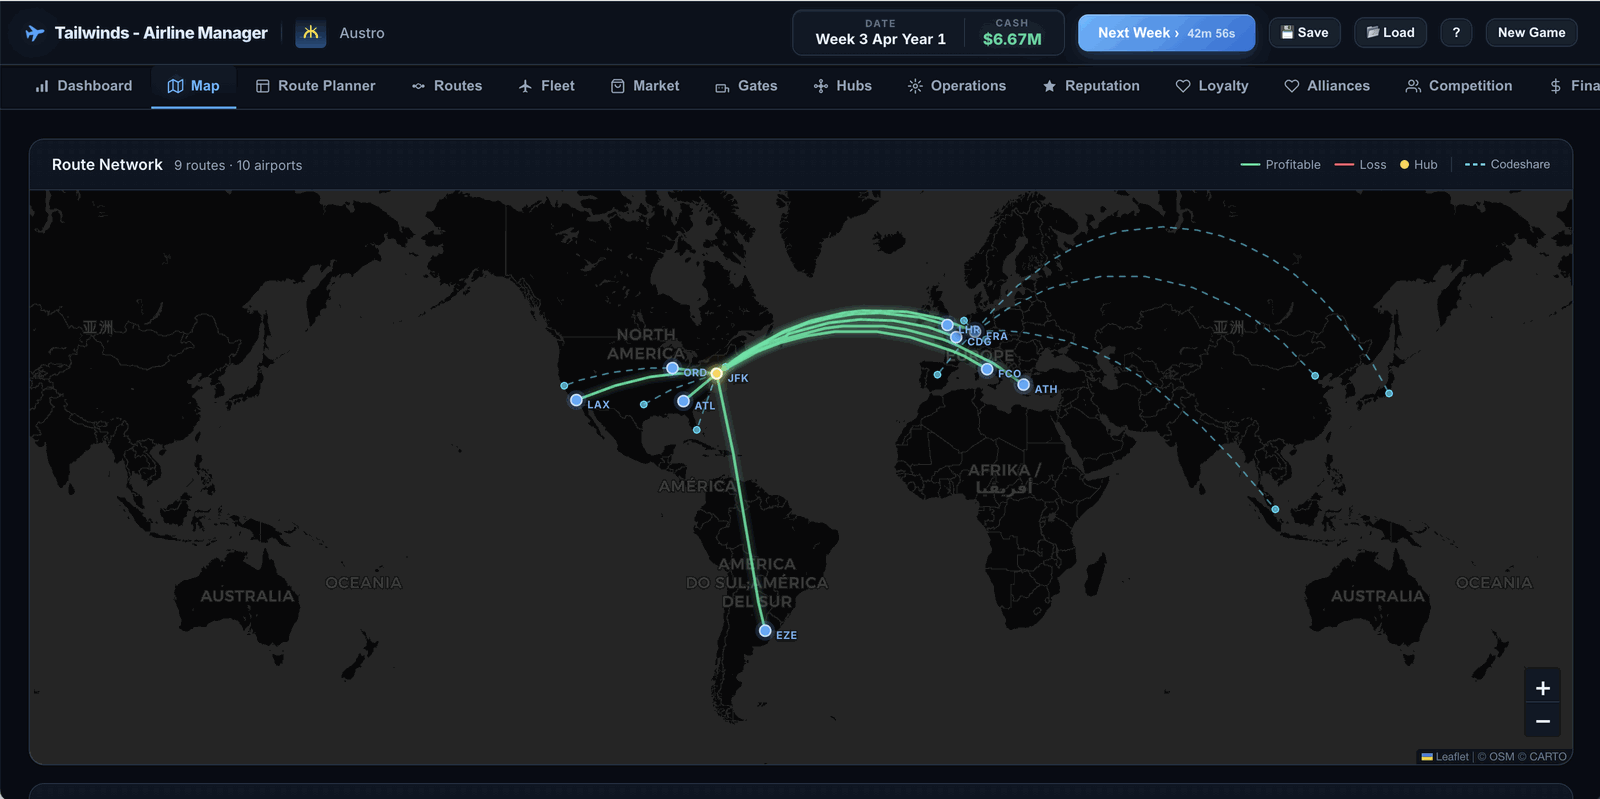
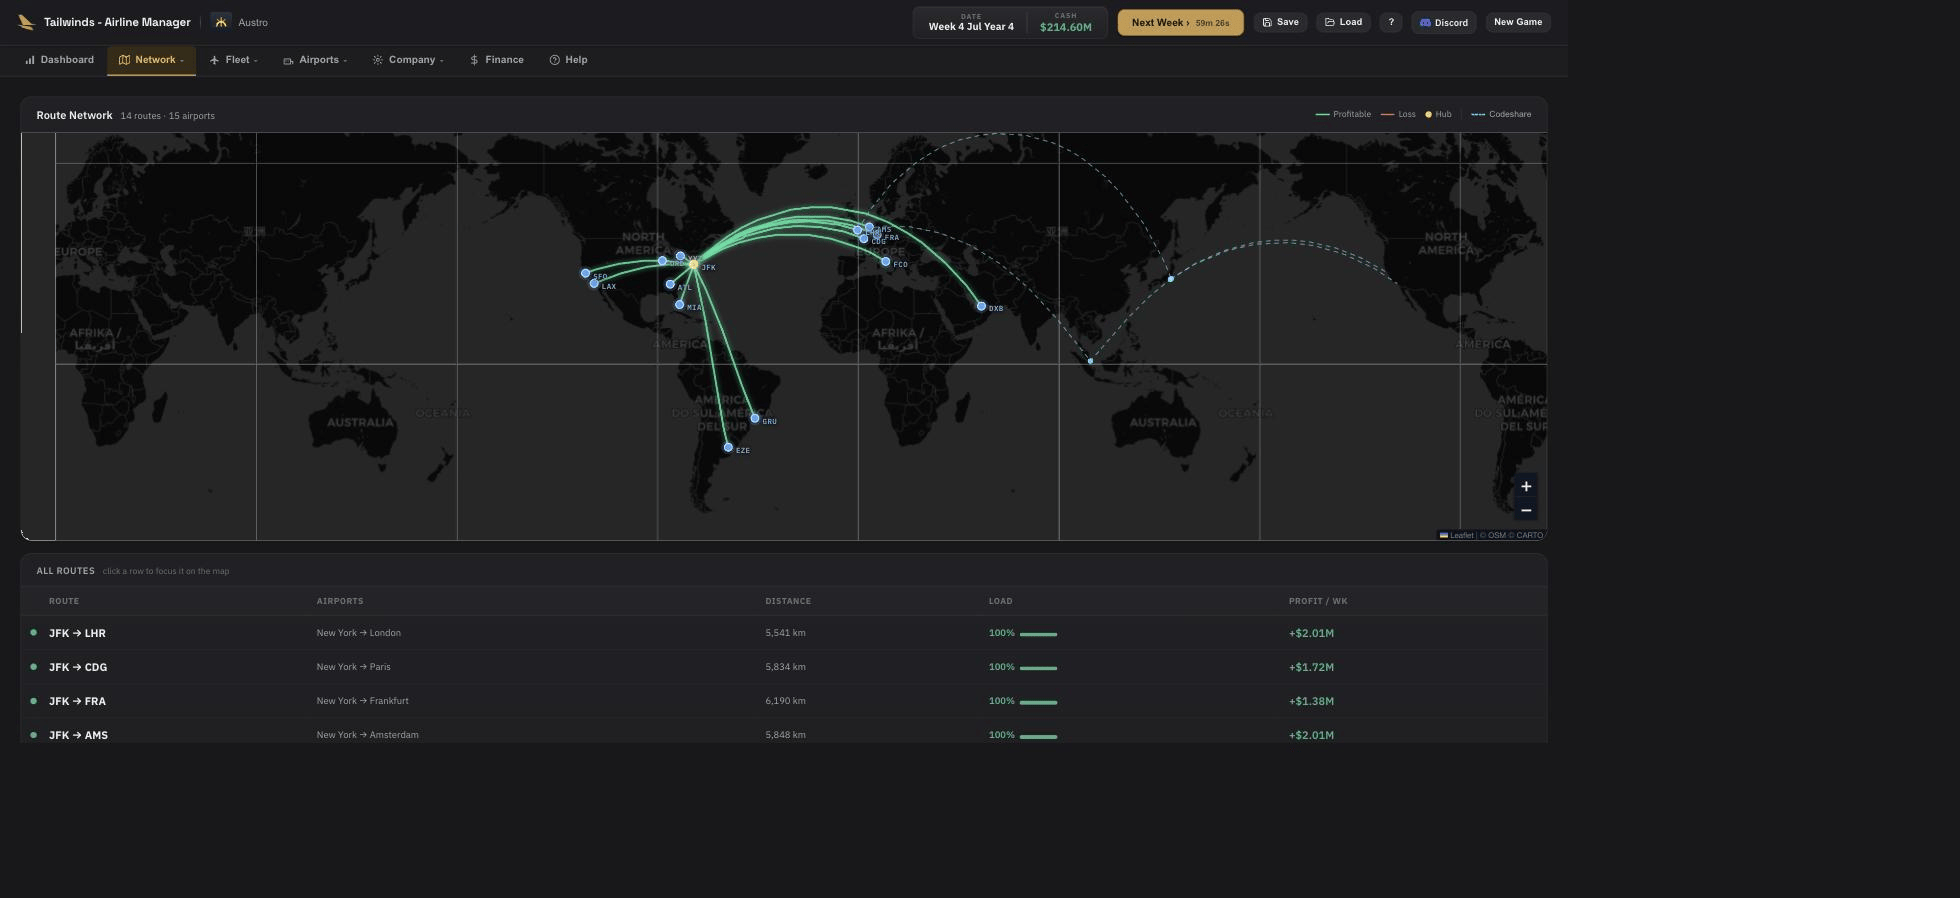
Landing hero: replace SVG mock with real Lunar Gateway screenshot + live standings; refresh shared imagery

diff --git a/apps/headwinds-web/index.html b/apps/headwinds-web/index.html
@@ -222,40 +222,20 @@
               <span class="dot" style="background:#e05c5c"></span>
               <span class="dot" style="background:#f59e0b"></span>
               <span class="dot" style="background:#3fb96b"></span>
-              <span style="margin-left:8px;">Headwinds — Pacific Century · world standings</span>
-              <span class="mock-clock">server clock <b>Y7 W32</b></span>
+              <span style="margin-left:8px;">Headwinds — Lunar Gateway · live world</span>
+              <span class="mock-clock">server clock <b>Y3 W33</b></span>
             </div>
-            <svg viewBox="0 0 460 168" style="display:block;width:100%;background:radial-gradient(circle at 55% 30%, #1b2330, #0a0d12);">
-              <g fill="none" stroke-width="1.6" opacity="0.9">
-                <path d="M96,120 Q180,28 318,72" stroke="#38c9b4"/>
-                <path d="M96,120 Q150,70 246,52" stroke="#38c9b4"/>
-                <path d="M96,120 Q220,150 372,118" stroke="#38c9b4"/>
-                <path d="M318,72 Q250,20 152,40" stroke="#c79a4b" stroke-dasharray="5 4"/>
-                <path d="M318,72 Q350,98 372,118" stroke="#c79a4b" stroke-dasharray="5 4"/>
-                <path d="M246,52 Q290,44 318,72" stroke="#5c9de0" stroke-dasharray="2 4"/>
-              </g>
-              <g fill="#8b98ab" opacity="0.45">
-                <circle cx="52" cy="42" r="2"/><circle cx="210" cy="132" r="2"/><circle cx="416" cy="48" r="2"/><circle cx="420" cy="146" r="2"/>
-              </g>
-              <circle cx="96" cy="120" r="6" fill="#38c9b4"/><circle cx="96" cy="120" r="11" fill="none" stroke="#38c9b4" stroke-width="1.5" opacity="0.5"/>
-              <circle cx="152" cy="40" r="4.5" fill="#c79a4b"/>
-              <circle cx="318" cy="72" r="5" fill="#e8edf4"/>
-              <circle cx="246" cy="52" r="4" fill="#e8edf4"/>
-              <circle cx="372" cy="118" r="4" fill="#e8edf4"/>
-              <text x="96" y="141" fill="#c3cddb" font-size="9" font-family="system-ui" text-anchor="middle">SIN — you</text>
-              <text x="152" y="29" fill="#c79a4b" font-size="9" font-family="system-ui" text-anchor="middle">HND — rival hub</text>
-              <text x="330" y="68" fill="#c3cddb" font-size="9" font-family="system-ui">SYD — contested</text>
-            </svg>
+            <img src="/hero.png" alt="Headwinds gameplay — live multiplayer route network map" style="display:block;width:100%;" />
             <table class="standings">
               <thead><tr><th>#</th><th>Airline</th><th>Hub</th><th>Routes</th><th>Market cap</th><th></th></tr></thead>
               <tbody>
-                <tr><td>1</td><td>Kestrel Pacific <span class="pill">🤝 Meridian</span></td><td>HND</td><td>41</td><td>$2.1B</td><td class="up">▲ 1</td></tr>
-                <tr class="you"><td>2</td><td>Your airline <span style="color:#66748a">(you)</span></td><td>SIN</td><td>38</td><td>$1.9B</td><td class="up">▲ 2</td></tr>
-                <tr><td>3</td><td>Aurora Atlantic <span class="pill">🤝 Meridian</span></td><td>KEF</td><td>33</td><td>$1.7B</td><td class="dn">▼ 1</td></tr>
-                <tr><td>4</td><td>Baltic Wing</td><td>RIX</td><td>27</td><td>$1.2B</td><td class="dn">▼ 2</td></tr>
+                <tr><td>1</td><td>Air Asia Pacific <span class="pill">🤝 Oriental</span></td><td>SIN</td><td>28</td><td>$17.45B</td><td class="up">▲ 1</td></tr>
+                <tr><td>2</td><td>King Air</td><td>DXB</td><td>3</td><td>$7.35B</td><td class="dn">▼ 1</td></tr>
+                <tr><td>3</td><td>PeoplExpress</td><td>EWR</td><td>13</td><td>$1.88B</td><td class="up">▲ 1</td></tr>
+                <tr class="you"><td>5</td><td>Austro <span style="color:#66748a">(you)</span> <span class="pill">🤝 Oriental</span></td><td>JFK</td><td>7</td><td>$13.6M</td><td class="up">▲ 2</td></tr>
               </tbody>
             </table>
-            <div class="mock-note">✉ <b>Kestrel Pacific:</b> “Stay out of SYD and we'll leave SIN–NRT alone. Deal?”</div>
+            <div class="mock-note">✉ <b>Rival DM:</b> “Stay out of ATL and we'll leave JFK–ORD alone. Deal?”</div>
           </div>
         </div>
       </div>